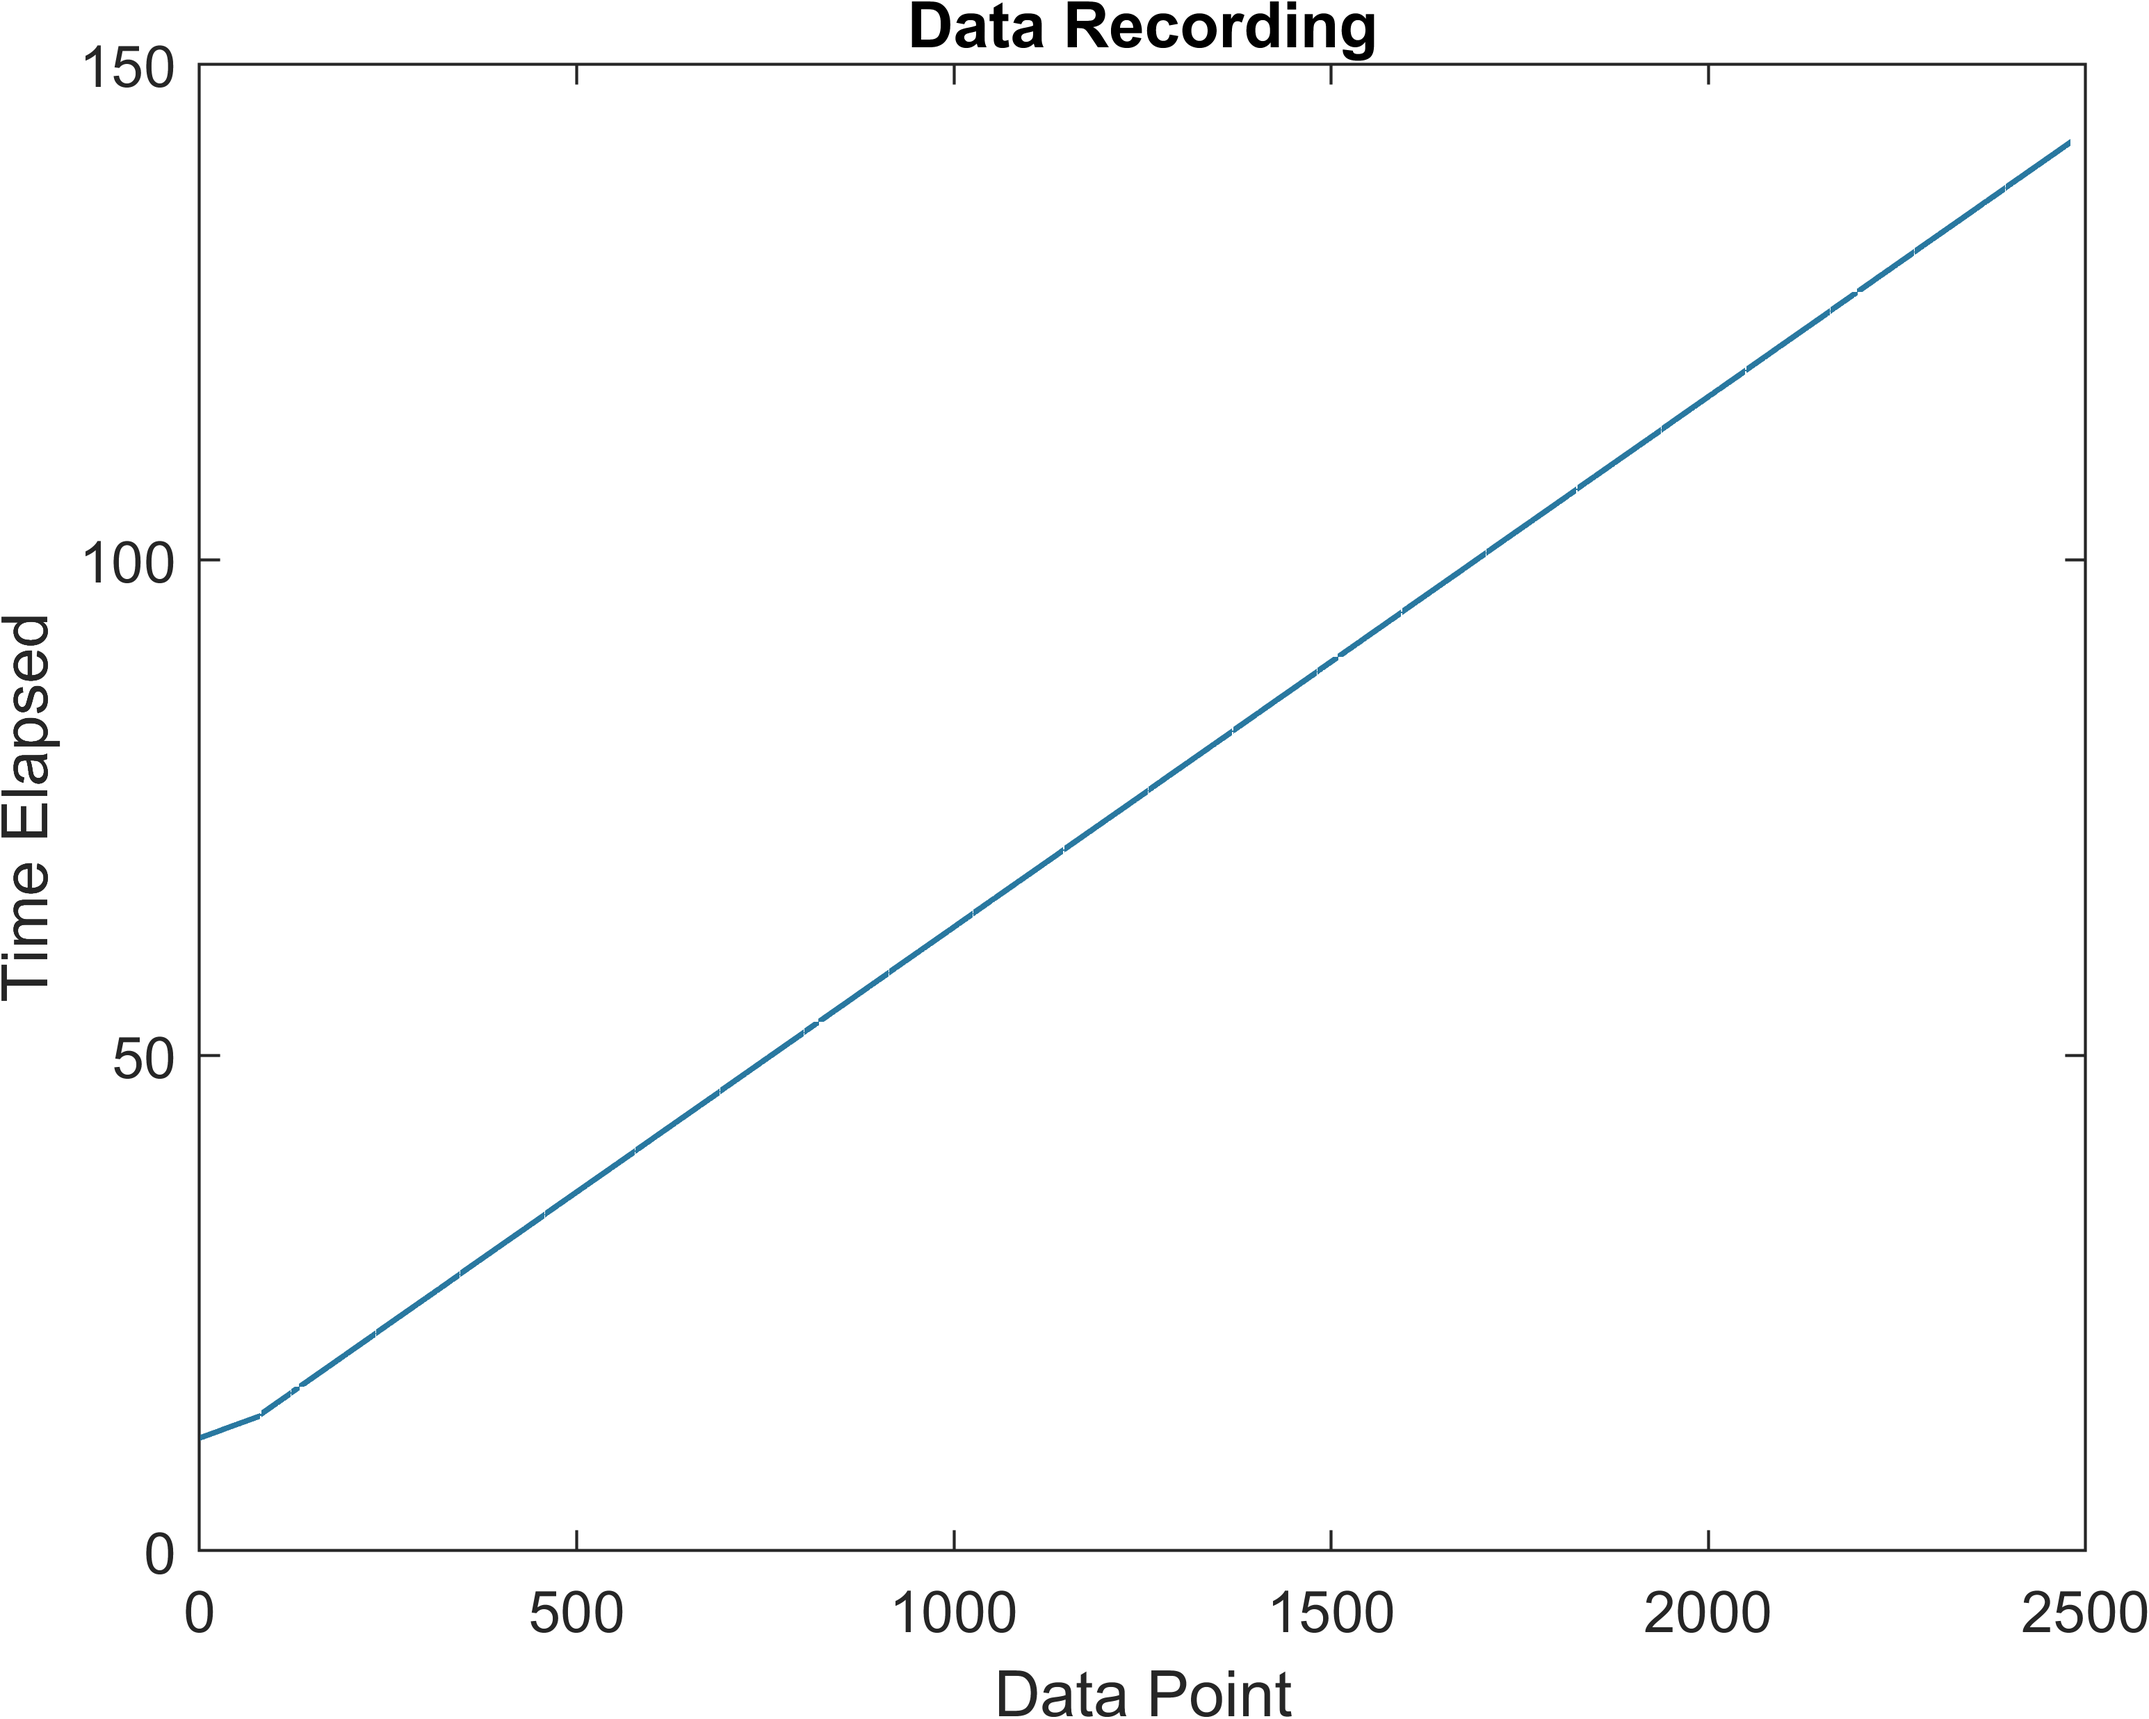
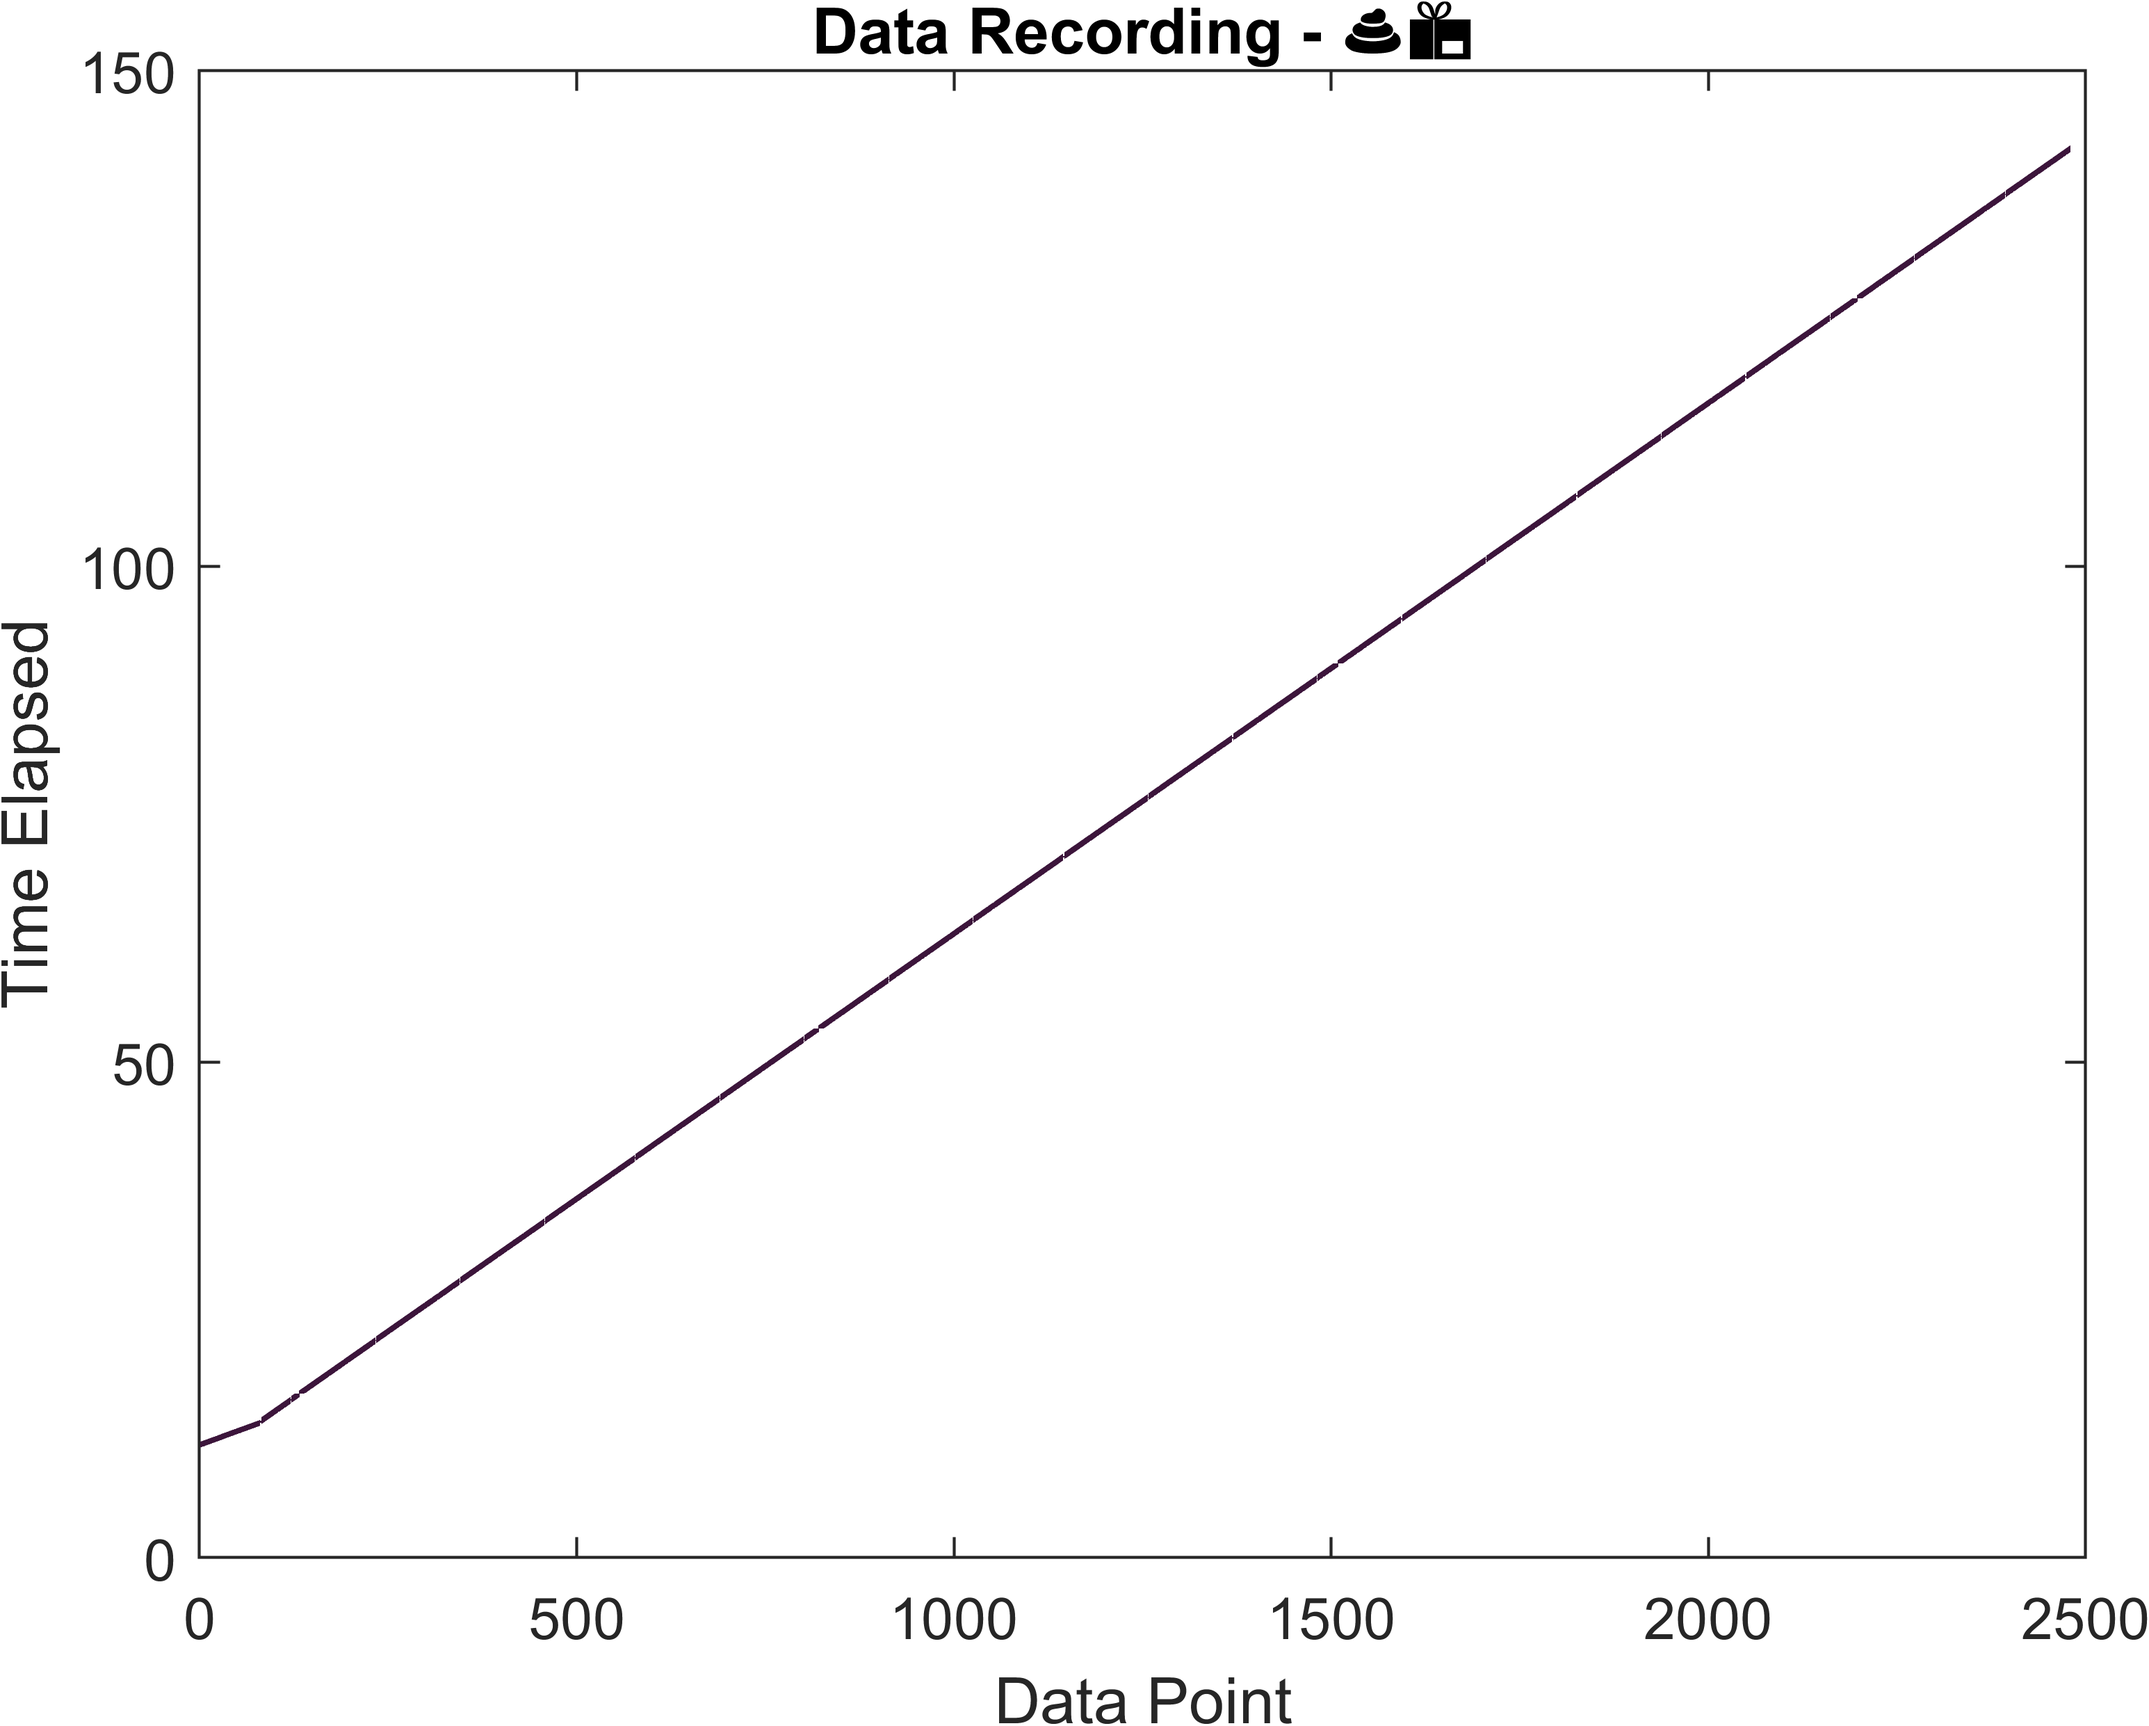
pnut plots

diff --git a/data_processing/astra.m b/data_processing/astra.m
@@ -53,9 +53,9 @@ exportgraphics(gcf, sprintf('%s_rotation.png', launch), 'Resolution', 600);
 
 figure
 plot(t, pressure, 'LineWidth', lw, 'Color', col1)
-title('Pressure')
+title('Pressure - 💩📦')
 xlabel('Time(s)')
-ylabel('Pressure (Pa) - 💩📦')
+ylabel('Pressure (Pa)')
 xlim([(min(t)-1), (max(t)+1)])
 exportgraphics(gcf, sprintf('%s_pressure.png', launch), 'Resolution', 600);
 
@@ -95,7 +95,6 @@ plot(t, altitude, 'LineWidth', lw, 'Color', col1)
 title('Altitude AGL - Pnut')
 xlabel('Time(s)')
 ylabel('Altitude (m)')
-xlim([(min(t)-1), (max(t)+1)])
 exportgraphics(gcf, sprintf('%s_altitude_pnut.png', launch), 'Resolution', 600);
 
 figure
@@ -103,7 +102,6 @@ plot(t, vel, 'LineWidth', lw, 'Color', col2)
 title('Velocity - Pnut')
 xlabel('Time(s)')
 ylabel('Velocity (m/s)')
-xlim([(min(t)-1), (max(t)+1)])
 exportgraphics(gcf, sprintf('%s_velocity_pnut.png', launch), 'Resolution', 600);
 
 figure
@@ -111,5 +109,6 @@ plot(t, temp, 'LineWidth', lw, 'Color', col3)
 title('Temperature - Pnut')
 xlabel('Time(s)')
 ylabel('Velocity (m/s)')
-xlim([(min(t)-1), (max(t)+1)])
 exportgraphics(gcf, sprintf('%s_temperature_pnut.png', launch), 'Resolution', 600);
+
+
